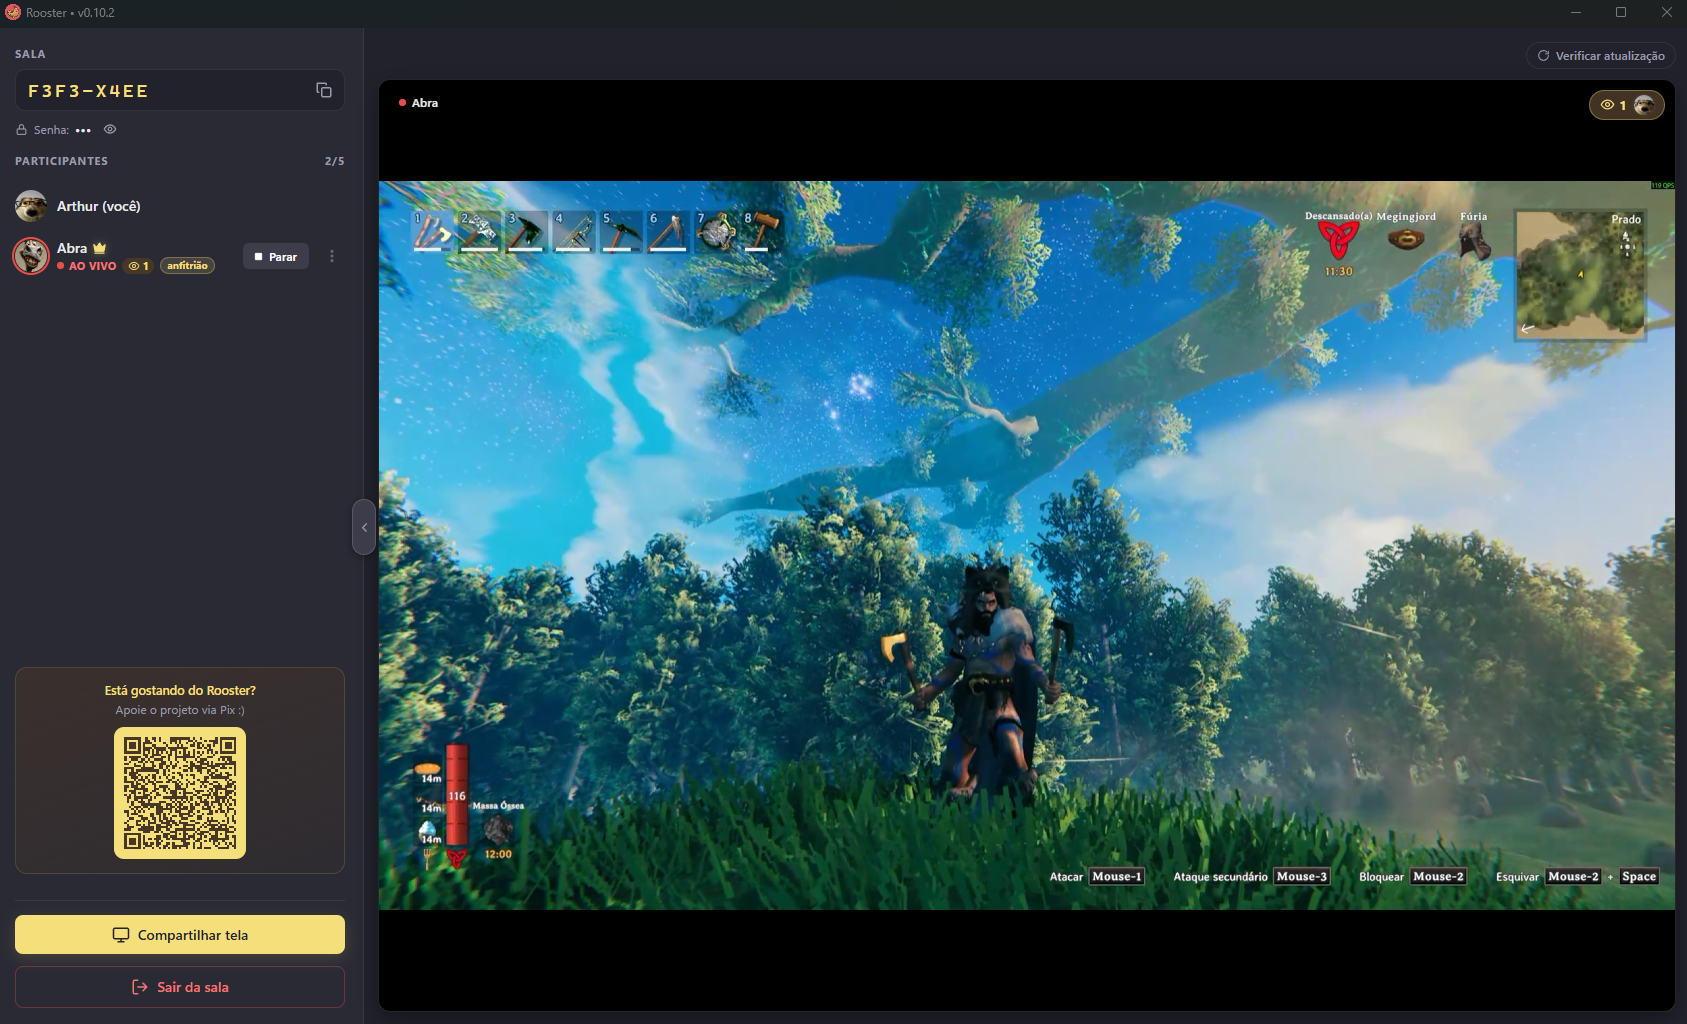
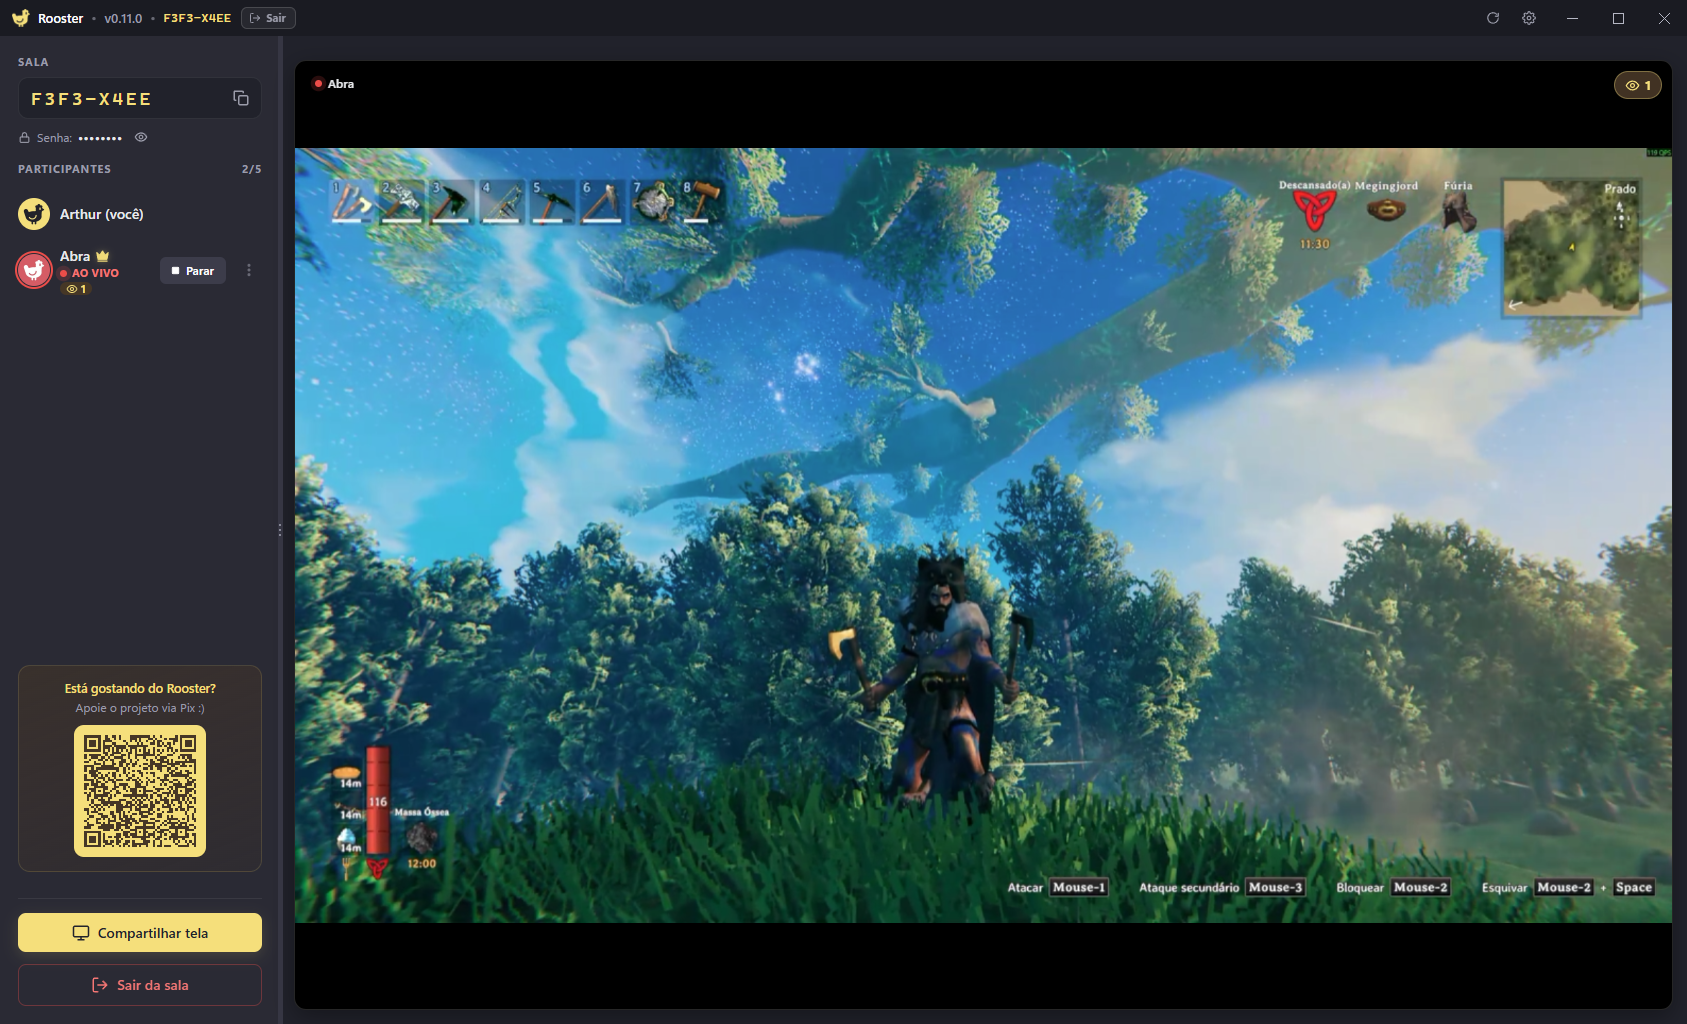
docs: README e prints da v0.11.0
- Prints refeitos com o visual novo (tela inicial, senha, assistindo e apresentação)
- Ícone novo
- Texto atualizado: qualidade por resolução e quadros, salas recentes, idiomas, Configurações
- Remove itens duplicados das listas

diff --git a/README.md b/README.md
@@ -19,15 +19,15 @@
 
 ## Por que o Rooster?
 
-- 🖥 **Tela ou janela, em alta qualidade.** Até 1080p a 60 fps.
+- 🖥 **Tela ou janela, na qualidade que você escolher.** De 480p a 1080p, a 30 ou 60 fps.
 - 🔊 **Com o som do PC, sem eco.** O app transmite o som dos jogos, vídeos e músicas, mas deixa de fora o Discord. Seus amigos não ouvem a própria voz de volta.
 - 👀 **Todo mundo pode transmitir ao mesmo tempo.** Assista a várias telas lado a lado, fixe uma em destaque ou coloque em tela cheia.
 - 🔒 **Direto entre vocês.** O vídeo vai de um PC para o outro, sem passar por servidores de terceiros.
 - 🔑 **Sala com senha, se quiser.** Defina uma senha ao criar a sala; o anfitrião também pode remover quem não deveria estar lá.
 - ⚡ **Leve para quem transmite.** O vídeo é codificado pela placa de vídeo quando possível, gastando pouca CPU.
-- 🔑 **Sala com senha, se quiser.** Defina uma senha ao criar a sala; o anfitrião também pode remover quem não deveria estar lá.
-- ⚡ **Leve para quem transmite.** O vídeo é codificado pela placa de vídeo quando possível, gastando pouca CPU.
-- 🎟 **Sem conta e sem cadastro.** Escolha um nome e uma foto, passe o código da sala e pronto.
+- 🕘 **Salas recentes.** O app lembra as últimas salas em que você esteve e mostra quais estão abertas: um clique para voltar.
+- 🎟 **Sem conta e sem cadastro.** Escolha um nome e um avatar (ou use uma foto sua), passe o código da sala e pronto.
+- 🌎 **Em português e inglês.**
 - 🔄 **Sempre atualizado.** Quando sai uma versão nova, um clique atualiza e reinicia o app.
 
 ## Como usar
@@ -35,7 +35,7 @@
 <img src="docs/home.png" width="520" align="right" alt="Tela inicial" />
 
 1. **Baixe e instale** o Rooster.
-2. **Escolha seu nome** e, se quiser, uma foto.
+2. **Escolha seu nome** e, se quiser, um avatar ou uma foto.
 3. **Crie uma sala** (com senha, se quiser) e mande o código para seus amigos, ou **entre** com o código de alguém.
 4. Clique em **Compartilhar tela** para transmitir, ou em **Assistir** para ver a tela de um amigo.
 
@@ -47,6 +47,7 @@ Cada sala comporta até **5 pessoas** (o anfitrião pode ajustar de 2 a 10).
 - O botão **⋯** ao lado de cada participante abre as opções: assistir, fixar, ocultar e, para o anfitrião, **remover da sala**.
 - Em cada transmissão você vê quantas pessoas estão assistindo e um aviso quando quem transmite desligou o som.
 - Quem está em outra rede (ou no 4G) consegue entrar mesmo assim: quem tiver as portas liberadas serve de ponte para os demais.
+- Em **Salas recentes**, as salas abertas mostram **Ingressar**; as fechadas podem ser reabertas com o mesmo código em **Criar sala**.
 
 ## Conheça o app
 
@@ -80,10 +81,10 @@ Na [página da última versão](https://github.com/muryarth/rooster-screen-share
 
 ## Dicas
 
-- **Amigo de outra cidade ou no 4G não conecta?** Na tela inicial, ligue **Liberar portas automaticamente**. O app abre as portas necessárias só enquanto você estiver numa sala. Basta que uma pessoa da sala consiga liberar as portas para todo mundo se conectar.
-- **Todos precisam estar na mesma versão** do app. Se alguém não conseguir entrar, peça para atualizar.
+- **Amigo de outra cidade ou no 4G não conecta?** Em **Configurações → Rede** (a engrenagem no topo), ligue **Liberar portas automaticamente**. O app abre as portas necessárias só enquanto você estiver numa sala. Basta que uma pessoa da sala consiga liberar as portas para todo mundo se conectar.
 - **Todos precisam estar na mesma versão** do app. Se alguém não conseguir entrar, peça para atualizar.
 - **Se quem criou a sala sair**, ela passa para outra pessoa e todo mundo continua conectado.
+- **Idioma:** troque entre português e inglês no rodapé da tela inicial ou em **Configurações → Geral**.
 - **`Ctrl +` e `Ctrl -`** aumentam ou diminuem o tamanho da interface.
 
 ## Apoie o projeto
